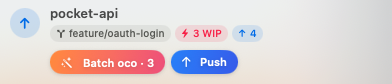
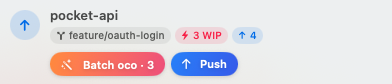
Retake landing page screenshots
Show the hero at its natural size so it isn't upscaled, and clip the
push alert to its rounded corners.

diff --git a/site/index.html b/site/index.html
@@ -120,8 +120,12 @@
     .shot:has(img) img, .shot.hero-shot:has(img) img, .shot.small:has(img) img { position: static; height: auto; }
     .shot.small:has(img) { padding: 14px; display: grid; place-items: center; }
     .shot.small:has(img) img { width: auto; max-width: 100%; max-height: 260px; border-radius: 8px; }
+    /* Clip to the alert's own rounded corners, hiding whatever was behind it. */
+    .shot.small:has(img) img.alert { border-radius: 0; clip-path: inset(3px round 22px); filter: drop-shadow(0 8px 20px rgba(0,0,0,.16)); }
     /* The hero is a window capture with its own shadow, so it needs no frame. */
     .shot.hero-shot:has(img) { background: none; border: 0; box-shadow: none; border-radius: 0; overflow: visible; max-width: 480px; }
+    /* Never enlarge the hero capture beyond its own pixels, which would blur it. */
+    .shot.hero-shot:has(img) img { width: auto; max-width: 100%; margin: 0 auto; }
 
     /* Sections */
     section { padding: 88px 0 0; }
@@ -251,7 +255,7 @@
           <h3><span class="ico"><svg viewBox="0 0 24 24" fill="none" stroke="currentColor" stroke-width="2.2" stroke-linecap="round" stroke-linejoin="round"><path d="M12 19V5M5 12l7-7 7 7"/></svg></span>Push</h3>
           <p>Runs <code>git push</code>, setting the upstream for new branches, and warns you first if WIP commits are still in there.</p>
           <div class="shot small">
-            <img src="screenshots/push.png" alt="The warning shown when pushing with WIP commits" onerror="this.remove()">
+            <img class="alert" src="screenshots/push.png" alt="The warning shown when pushing with WIP commits" onerror="this.remove()">
             <div class="ph">→ site/screenshots/push.png</div>
           </div>
         </article>
